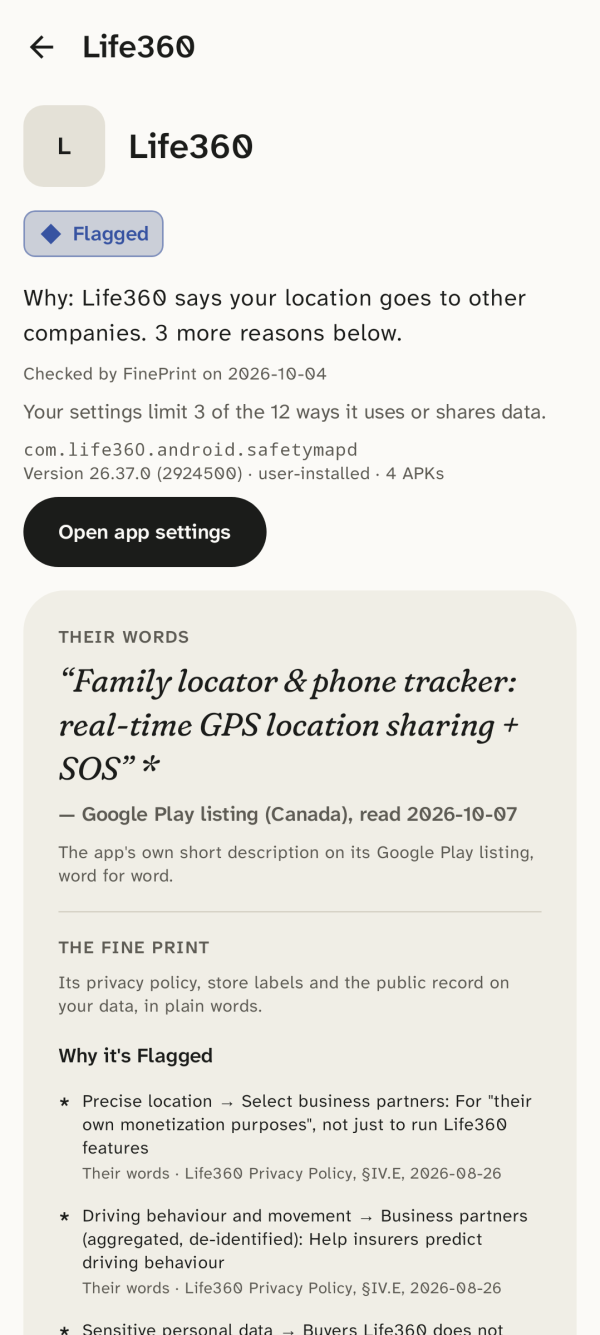
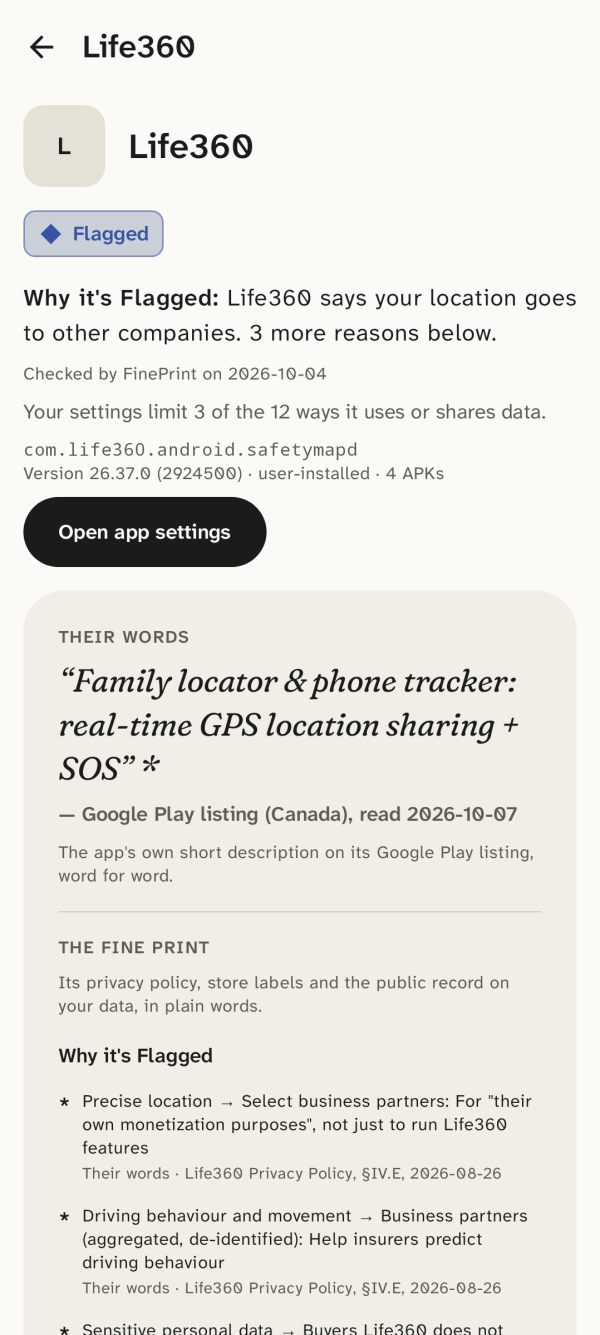
README: the phone test's follow-up, and its screenshots redrawn
Status gains a line for this slice: the page's sections closed below
the fine print, Jurisdictions on its own, a ruling's reason in the
tier's words, At a glance without per-place chips, rows that leave the
tier to their header, and Open going to the quoted words. The reading
pass's Why example reads "Why it's Flagged: …"; the screenshot tests
now draw Facebook's page whole too.

The README's four images, redrawn by readmeScreenshots: the home
without its chips and with rows that carry no tier chip, and Life360's
page with its new Why line. The caption names the bundle's follow-ups
(PR #7) beside tracker batches 1 and 2.

Claude-Session: https://claude.ai/code/session_016cezgH7PfKCPMWXu7PCC2T

Changed region(s): [[0.03, 0.215, 0.96, 0.2764]]

diff --git a/README.md b/README.md
@@ -23,7 +23,7 @@ supported by exactly one hardcoded ad that knows nothing about you.
 </p>
 
 Drawn by the screenshot tests (`./gradlew readmeScreenshots`), never by hand, from knowledge bundle 2026.10.09
-(with tracker batches 1 and 2) and the scan fixture: the test emulator's apps, plus Google Maps, which has a
+(with tracker batches 1 and 2 and their follow-ups) and the scan fixture: the test emulator's apps, plus Google Maps, which has a
 record but isn't installed there.
 In dark mode: [the home](docs/screenshots/home-dark.png) and [Life360](docs/screenshots/detail-dark.png).
 
@@ -80,13 +80,13 @@ G1 to G3 are signed off on an Android 17 emulator, G5 is built, and the schema i
 - G3, the UI pass: tiers by a published formula (`docs/METHOD.md`), the same sections with their
   definitions on every page, a Sources sheet, How to read this, Reviewed marks and the "What you
   can do" checklist, with tap targets of 48dp or more enforced by a test.
-- G5, the design pass: the Field notes design system on the home, the detail screen and a
-  three-page introduction, with colour only on tier and bucket chips and its contrast and
-  colour-blind separation enforced by a test. The detail screen opens with "Their words", the app's
-  Play listing short description quoted verbatim, then the fine print. Screenshot tests draw the
-  home, Life360, its Sources sheet, How to read this and the introduction, light and dark, at 150%
-  and 200% text and on a small phone and a tablet (and the README's images); every device test runs
-  the accessibility checks, and TalkBack was checked on the emulator.
+- G5, the design pass: the Field notes design system on the home, the detail screen and a three-page
+  introduction, with colour only on tier and bucket chips and its contrast and colour-blind
+  separation enforced by a test. The detail screen opens with "Their words", the app's Play listing
+  short description quoted verbatim, then the fine print. Screenshot tests draw the home, Life360,
+  its Sources sheet, Facebook's page whole, How to read this and the introduction, light and dark,
+  at 150% and 200% text and on a small phone and a tablet (and the README's images); every device
+  test runs the accessibility checks, and TalkBack was checked on the emulator.
 - Schema v1.3: one tracker record covers several Exodus ids (`covers[]`); a record's history, with
   the direction of each change (`changes[]`); ongoing and past legal actions, where only ongoing
   or recent ones set a tier; government access, with a checked table of laws per country
@@ -102,8 +102,15 @@ G1 to G3 are signed off on an Android 17 emulator, G5 is built, and the schema i
   opening under it.
 - The reading pass: plain words throughout, with a Voice section in `docs/METHOD.md` and a
   readability report on every build (CI warns, never fails); under each app's name, the reason for
-  its tier ("Why: Life360 says your location goes to other companies"), with what set it listed
-  first under "Why it's Flagged"; a search bar on the home; and an edge on every card in dark mode.
+  its tier ("Why it's Flagged: Life360 says your location goes to other companies"), with what set
+  it listed first under "Why it's Flagged"; a search bar on the home; and an edge on every card in
+  dark mode.
+- After a test on a phone: an app's page keeps its header, Their words and the fine print open, and
+  every section below starts as a row with a one-line summary that opens in place ("Where it goes ·
+  2 ways, 0 limited by your settings"); Jurisdictions is a section of its own ("Based in: United
+  States"); a ruling's reason gives the rule in the tier's own words, then who acted and when; At a
+  glance no longer counts apps per place, and a row in a tier's section leaves the tier to its
+  header; and a source's Open button goes to the quoted words where the browser supports it.
 - Tracker records for 24 common SDKs (covering 29 tracker ids) and 26 company records, with tracker
   batches 1 and 2 merged: bundle 2026.10.09 holds them with the 4 app records and 10 jurisdictions.
   A tracker's legal and reported lines show under On the record on every app that carries it,
